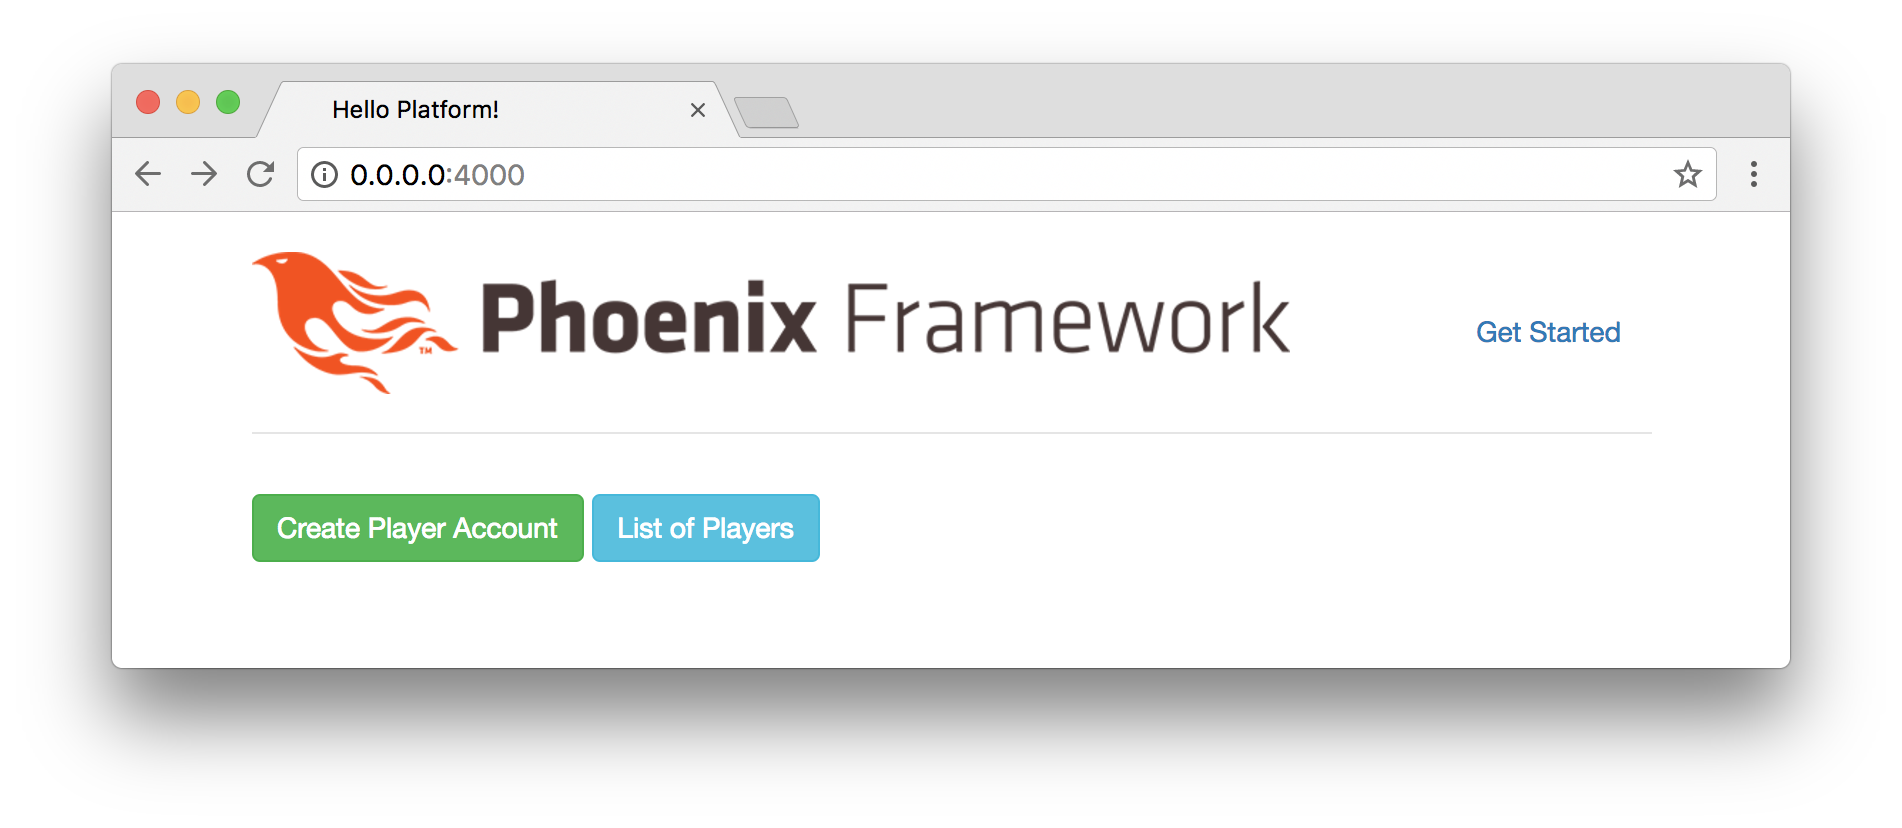
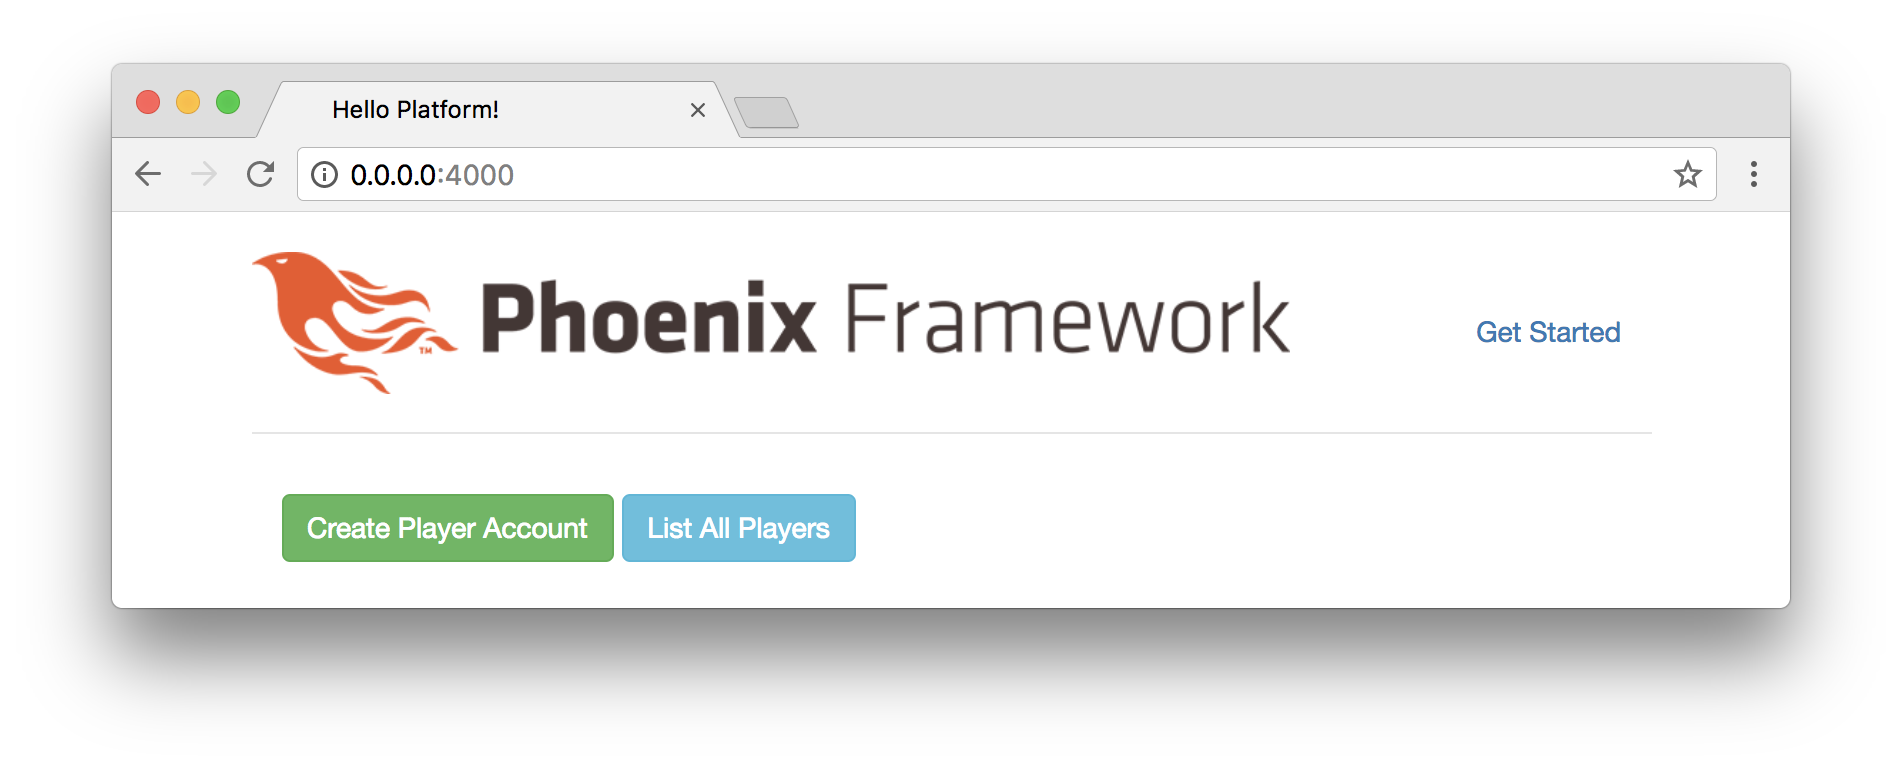
Finish updates and fixes to Diving In chapter
Fixed a minor discrepancy in the screenshots where it said "List of
Players" instead of "List All Players".

I've also been trying to trim some of the giant code snippets in the
book so they don't take up full pages.

diff --git a/manuscript/diving_in.md b/manuscript/diving_in.md
@@ -369,7 +369,7 @@ extension. That means we can write standard HTML code, and we can also embed
 Elixir code too.
 
 Let's open the `lib/platform_web/templates/page/index.html.eex` file and take a
-look:
+look (note that some of the HTML was trimmed for the sake of readability):
 
 ```embedded_elixir
 <div class="jumbotron">
@@ -382,31 +382,14 @@ look:
   <div class="col-lg-6">
     <h4>Resources</h4>
     <ul>
-      <li>
-        <a href="http://phoenixframework.org/docs/overview">Guides</a>
-      </li>
-      <li>
-        <a href="https://hexdocs.pm/phoenix">Docs</a>
-      </li>
-      <li>
-        <a href="https://github.com/phoenixframework/phoenix">Source</a>
-      </li>
+      <!-- ... -->
     </ul>
   </div>
 
   <div class="col-lg-6">
     <h4>Help</h4>
     <ul>
-      <li>
-        <a href="http://groups.google.com/group/phoenix-talk">Mailing list</a>
-      </li>
-      <li>
-        <a href="http://webchat.freenode.net/?channels=elixir-lang">#elixir-lang
-        on freenode IRC</a>
-      </li>
-      <li>
-        <a href="https://twitter.com/elixirphoenix">@elixirphoenix</a>
-      </li>
+      <!-- ... -->
     </ul>
   </div>
 </div>
@@ -491,11 +474,11 @@ We can now verify that our links still work the same way they did previously:
 
 ## Summary
 
-In this chapter, we managed to cover _a lot_ of ground. We were able to create
+In this chapter, we managed to cover a lot of ground. We were able to create
 the entire foundation for our application with a Phoenix back-end. We leveraged
-the Phoenix generators to create our players resource. We also started getting
-an idea of what the Phoenix folder structure looks like, and started editing
-files. We also learned a little about routing and worked with the database.
+the Phoenix generators to create our players resource, started getting an idea
+of what the Phoenix folder structure looks like, and began editing files. We
+also learned a little about routing and working with the database.
 
 We've gotten an introductory look at how to create a full Elixir and Phoenix
 web platform, and we even created a couple of player records that we can use as
